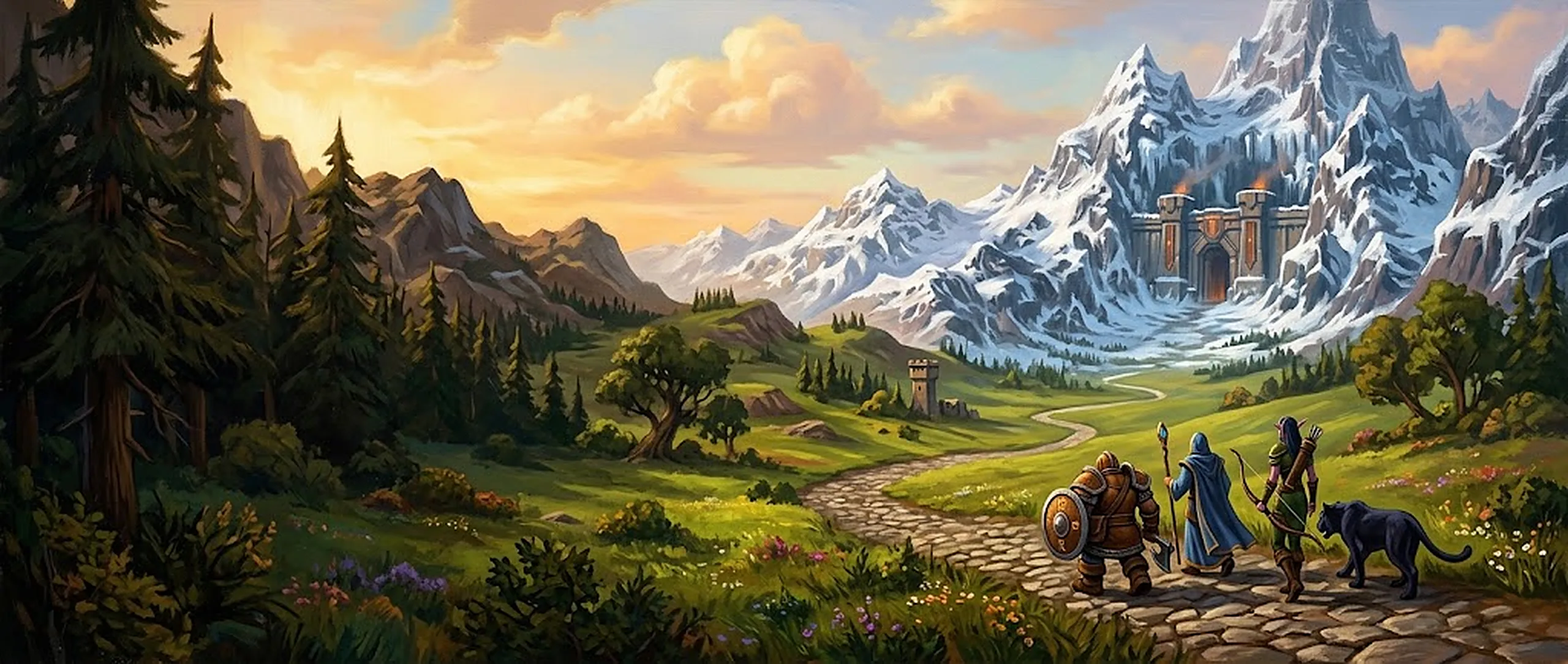
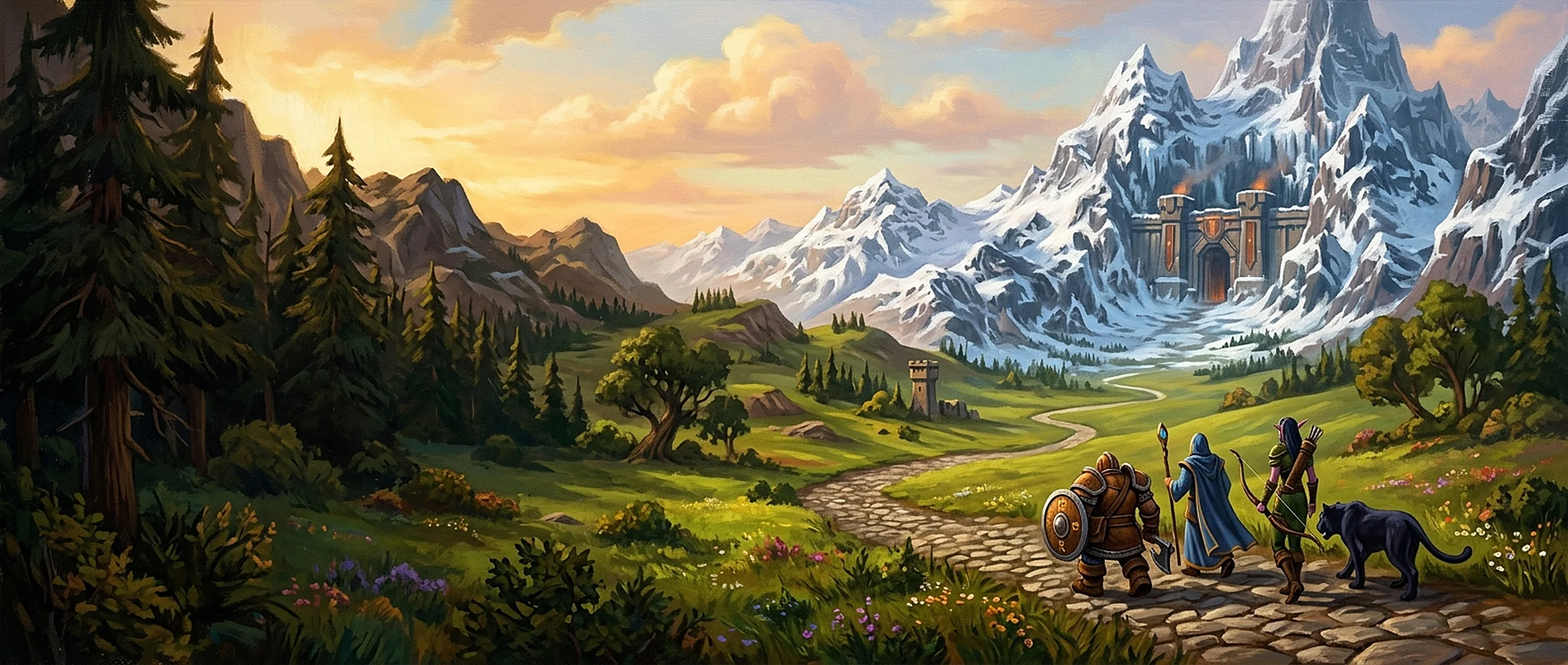
Front page backgrounds: use the original downloaded files (sharper)
Claude-Session: https://claude.ai/code/session_01GuosNo3eErJMB8BXvGXGoG

diff --git a/CLAUDE.md b/CLAUDE.md
@@ -334,8 +334,8 @@ Paladin, Warrior. Keep new classes inserted in this order on both pages.
   scenes, made by the owner with free outside image tools, not Claude). `index.html`'s inline
   script right after `<div class="hero" id="hero">` rotates them every 2 days (UTC day / 2,
   same picture for everyone), each with its own `background-position` so the party and gate
-  stay in view; `?bg=1..4` previews one. CSS default is hero-1. They came in small
-  (1024–1248 px wide) and were upscaled; send higher-res originals to replace them in place.
+  stay in view; `?bg=1..4` previews one. CSS default is hero-1. Sources are the owner's
+  downloaded files (1584×672 for hero-1, 1248×832 for the rest), upscaled to 2560/1920 wide.
   `assets/og.jpg` is built from hero-1.
 - `assets/sleepingbag.webp` — small icon (256×256) for the Cozy Sleeping Bag overlay
   plaque on `index.html`. Generated via local ComfyUI (SDXL base txt2img), finalized
